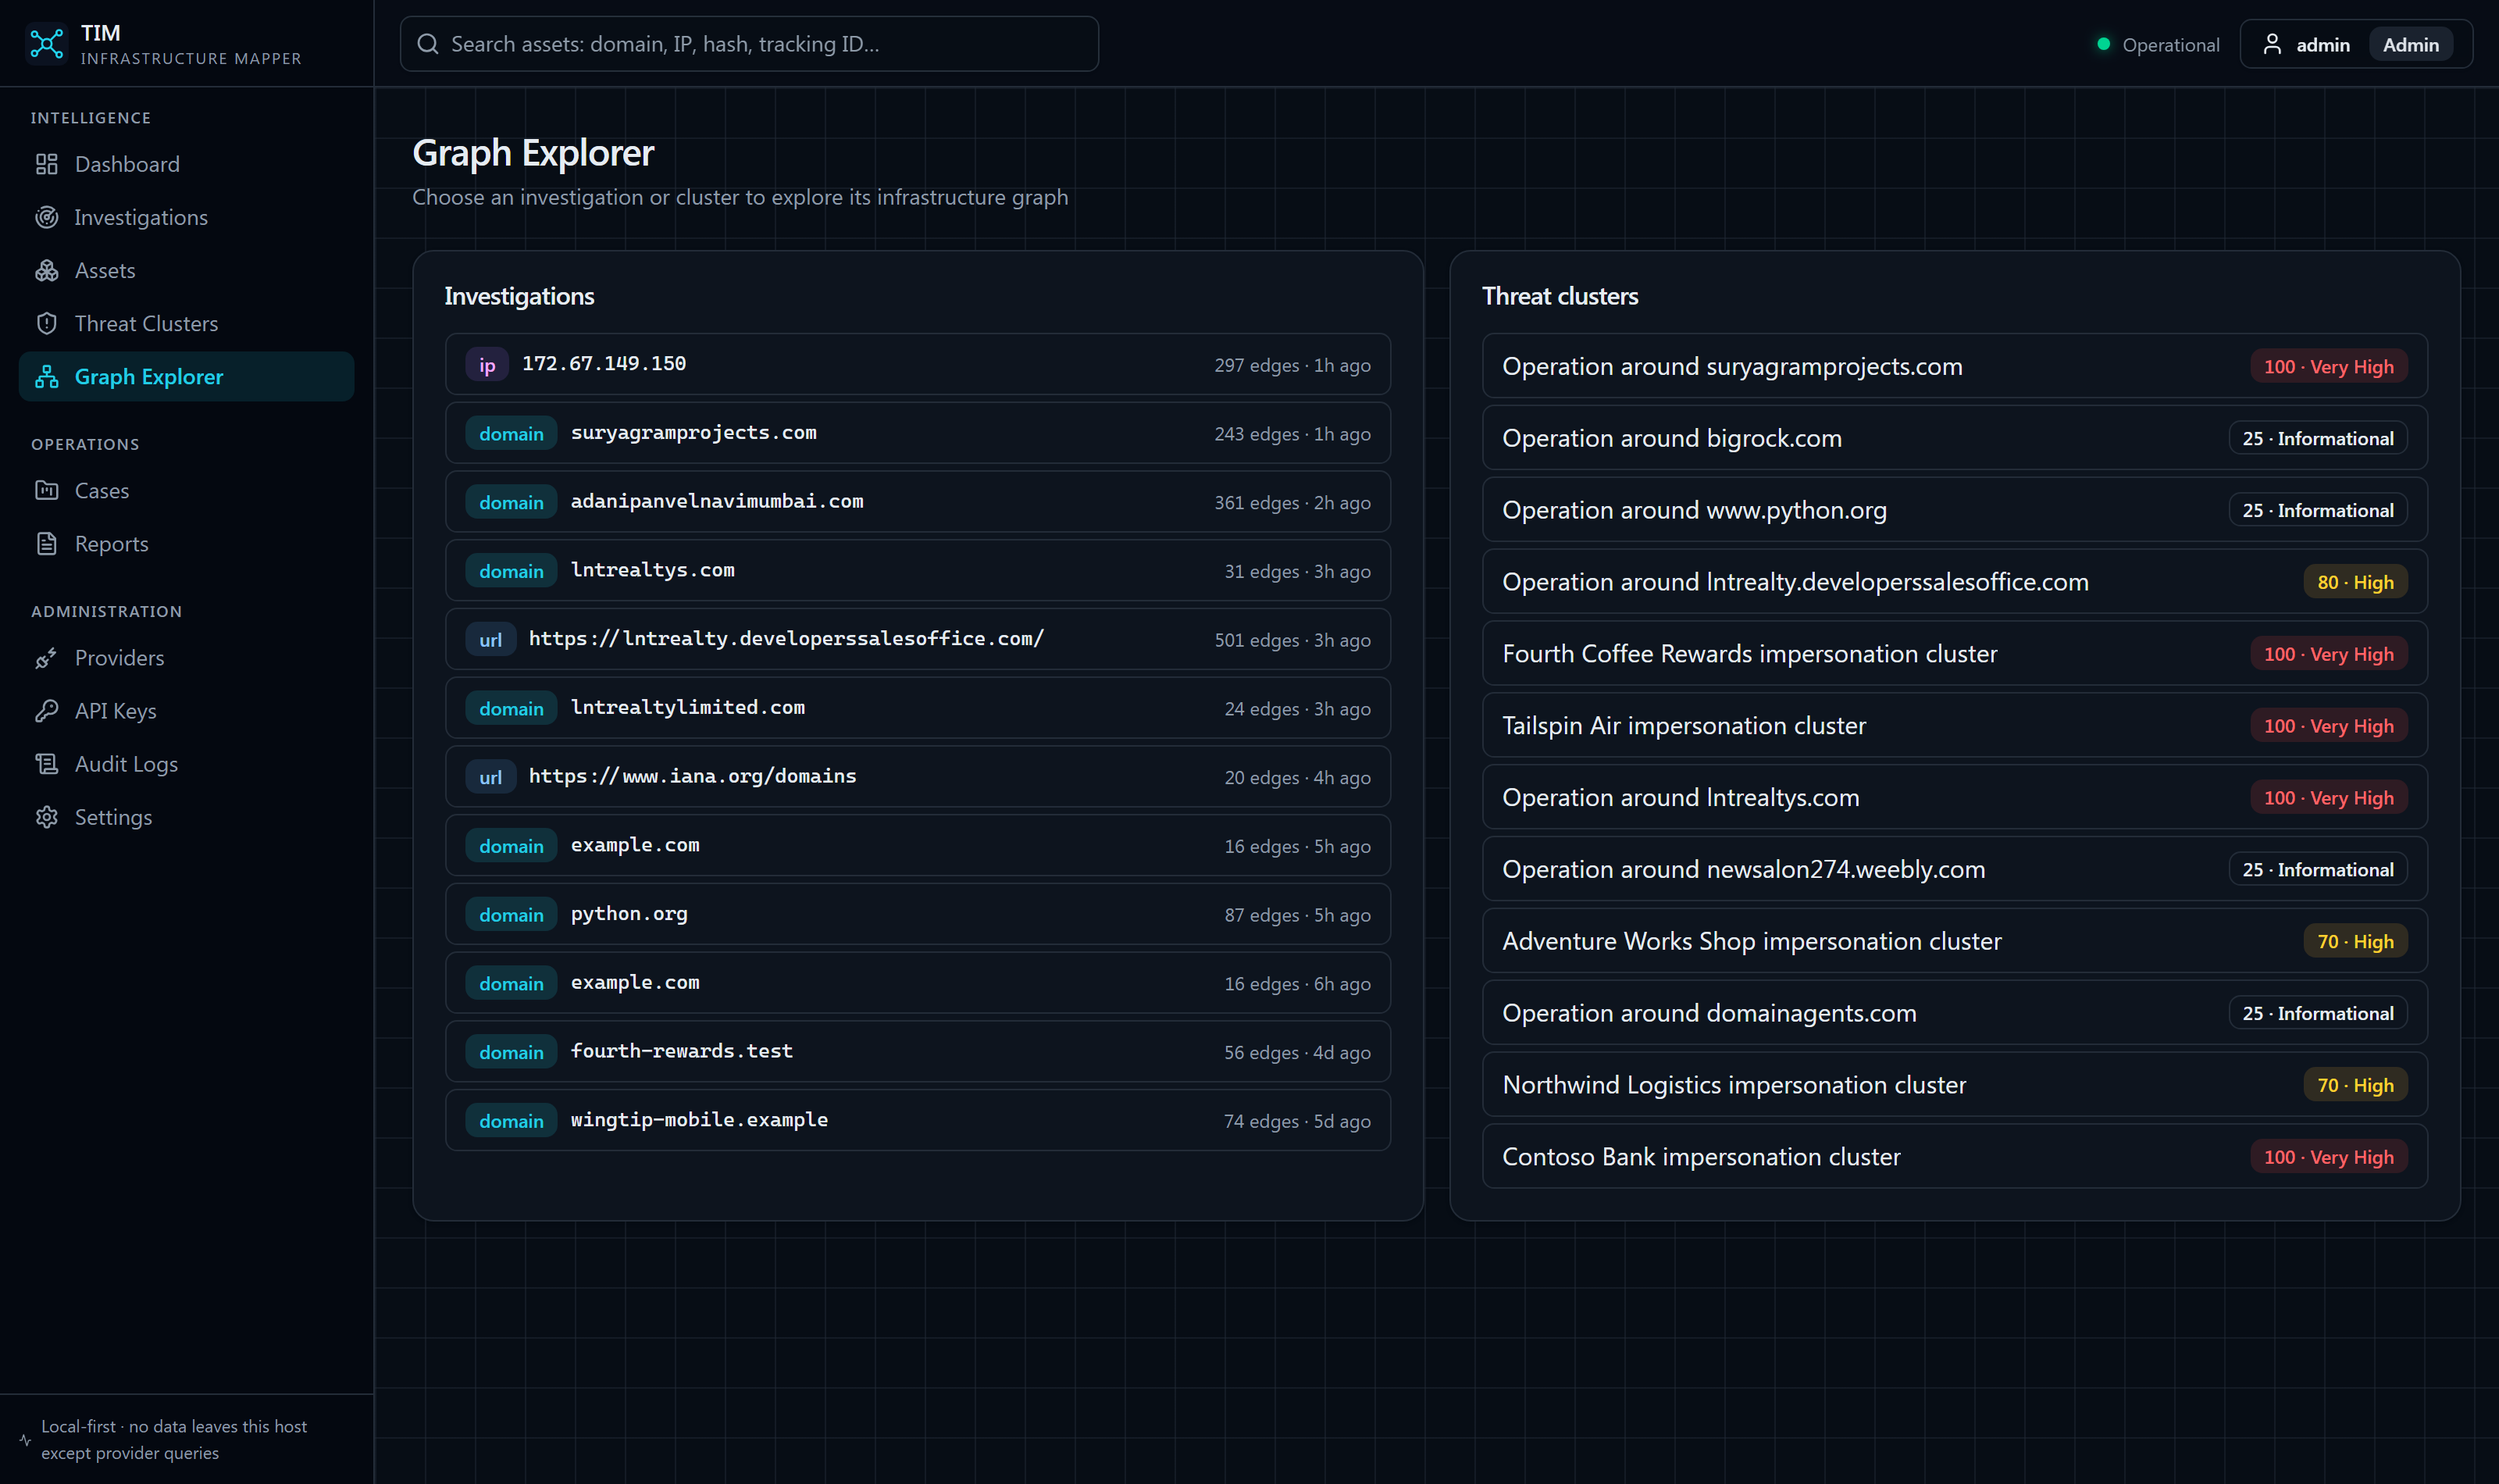
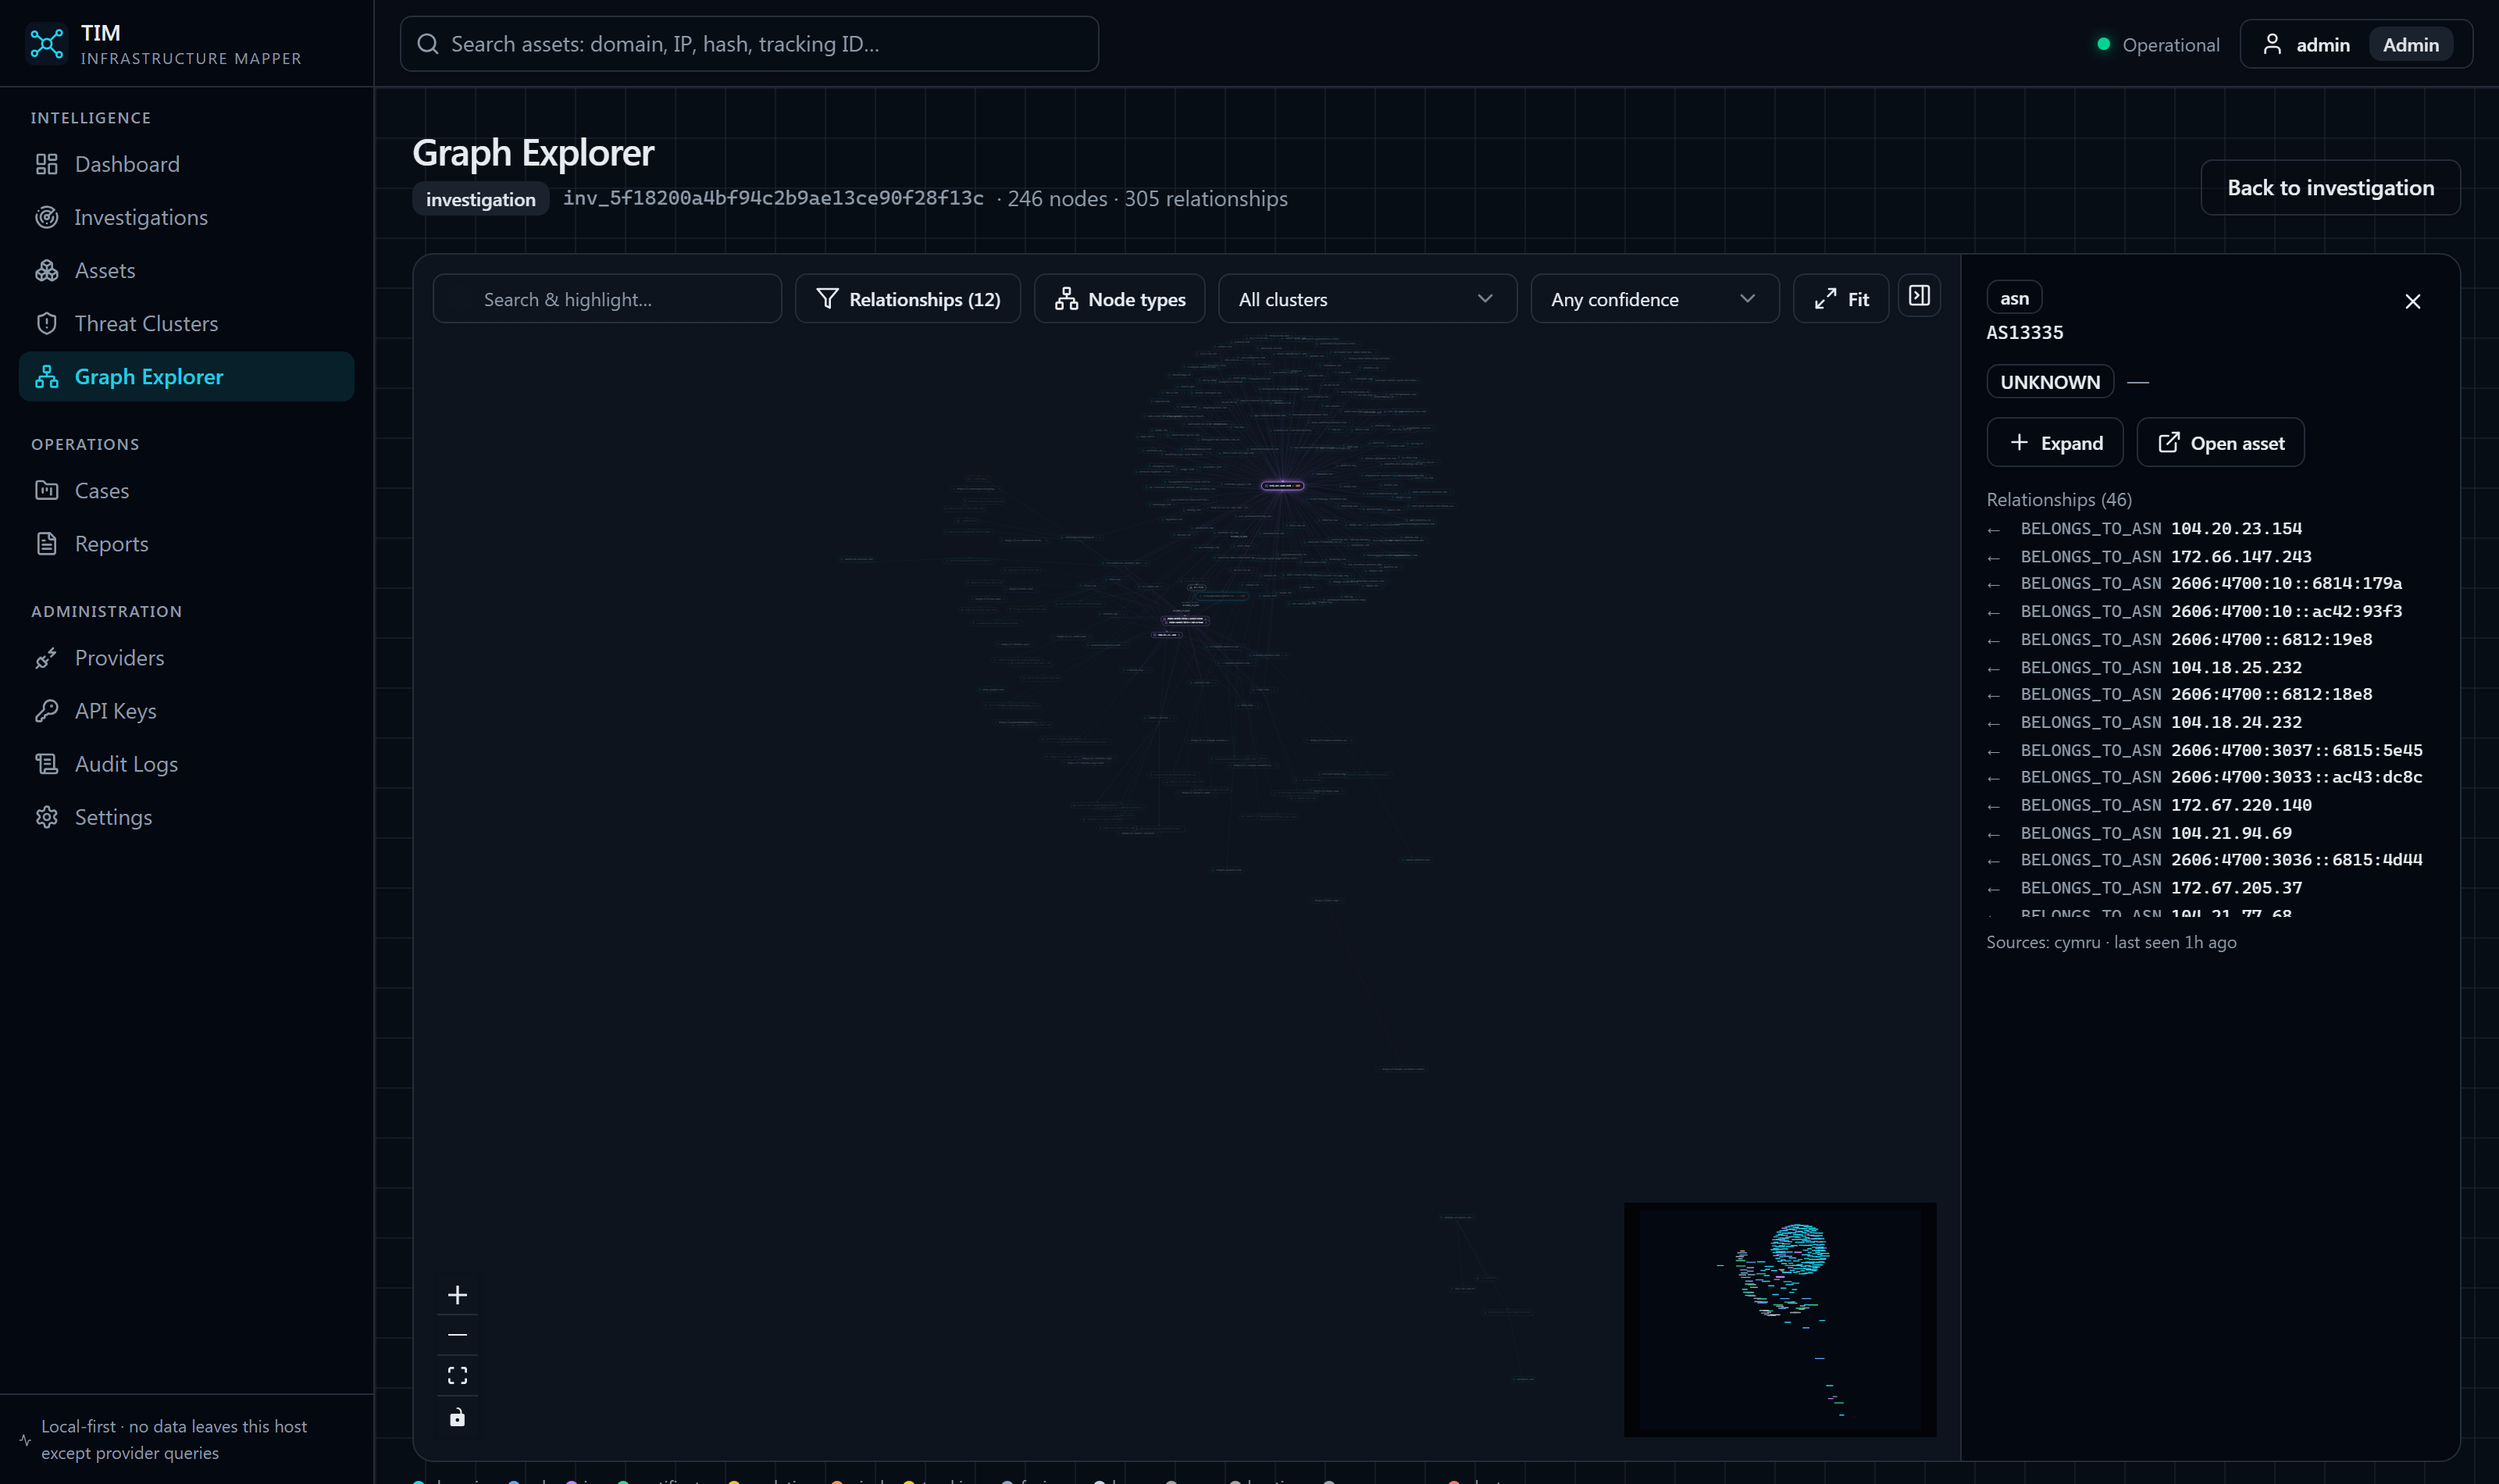
docs: update graph_explorer screenshot with populated 240+ node active investigation graph

diff --git a/scripts/capture_graph.py b/scripts/capture_graph.py
@@ -1,0 +1,70 @@
+"""Capture real, populated interactive Graph Explorer screenshot with nodes and edges."""
+
+import time
+from pathlib import Path
+from playwright.sync_api import sync_playwright
+
+BASE_URL = "http://127.0.0.1:4000"
+OUT_DIR = Path(__file__).resolve().parent.parent / "docs" / "screenshots"
+
+def main():
+    with sync_playwright() as p:
+        browser = p.chromium.launch(headless=True)
+        context = browser.new_context(
+            viewport={"width": 1600, "height": 950},
+            color_scheme="dark",
+            device_scale_factor=2,
+        )
+        page = context.new_page()
+
+        print("[*] Logging in...")
+        page.goto(f"{BASE_URL}/login")
+        page.wait_for_selector("#username", timeout=10000)
+        page.fill("#username", "admin")
+        page.fill("#password", "ChangeMe!2026")
+        page.click("button[type='submit']")
+
+        page.wait_for_url(f"{BASE_URL}/", timeout=10000)
+        time.sleep(2)
+
+        # Go to investigations
+        print("[*] Navigating to Investigations...")
+        page.click('a[href="/investigations"]')
+        time.sleep(2)
+
+        # Open the first completed investigation
+        print("[*] Opening first investigation...")
+        first_inv = page.locator("table tbody tr td a").first
+        first_inv.click()
+        time.sleep(2.5)
+
+        # Click Open graph
+        print("[*] Clicking Open Graph...")
+        open_graph_btn = page.locator('a:has-text("Open graph")')
+        open_graph_btn.click()
+        
+        # Wait for ReactFlow to fetch graph payload and render canvas
+        print("[*] Waiting for React Flow canvas to render...")
+        time.sleep(4)
+        page.wait_for_selector(".react-flow__node", timeout=10000)
+        
+        node_count = page.locator(".react-flow__node").count()
+        edge_count = page.locator(".react-flow__edge").count()
+        print(f"[+] Loaded {node_count} nodes and {edge_count} edges into view!")
+
+        # Click on a prominent node to open the Evidence Sidebar with correlation scores
+        try:
+            page.locator(".react-flow__node").first.click()
+            time.sleep(1)
+        except Exception as e:
+            print("[-] Could not select node:", e)
+
+        # Take screenshot of the populated graph
+        graph_path = OUT_DIR / "graph_explorer.png"
+        page.screenshot(path=str(graph_path))
+        print(f"[+] Successfully captured rich graph screenshot to: {graph_path.name}")
+
+        browser.close()
+
+if __name__ == "__main__":
+    main()
